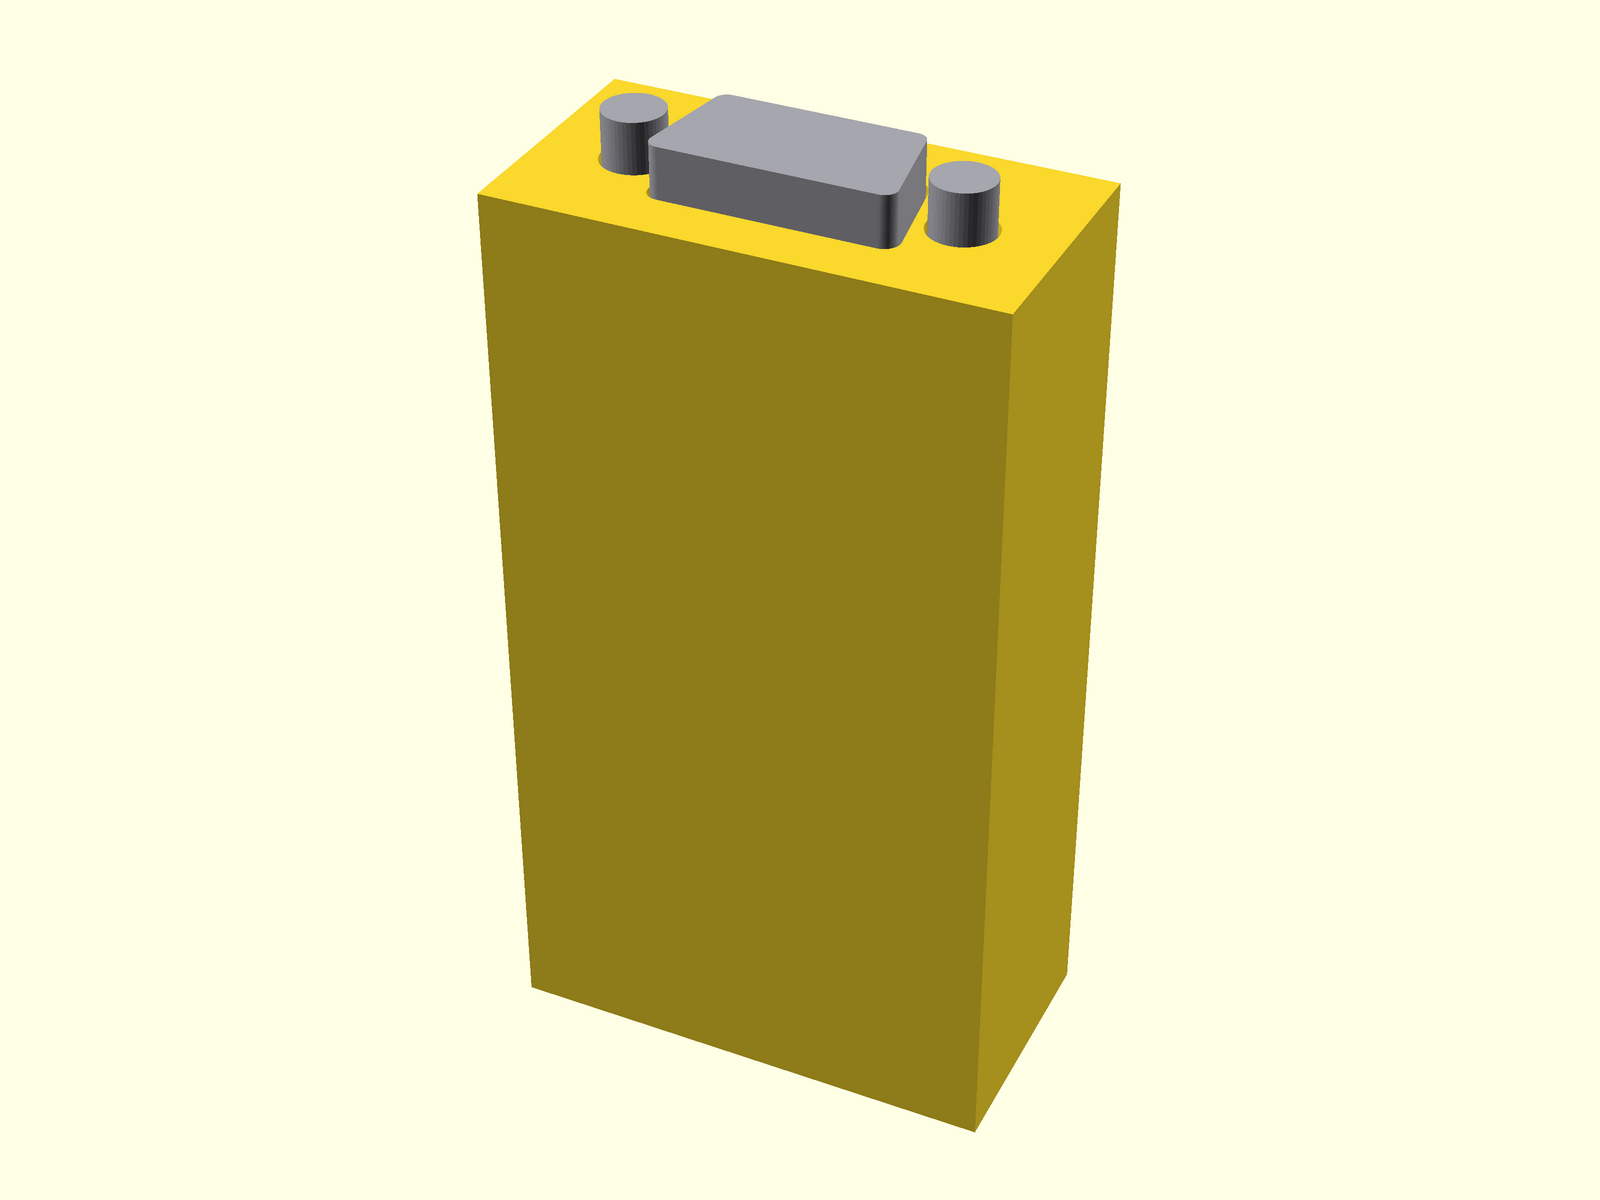
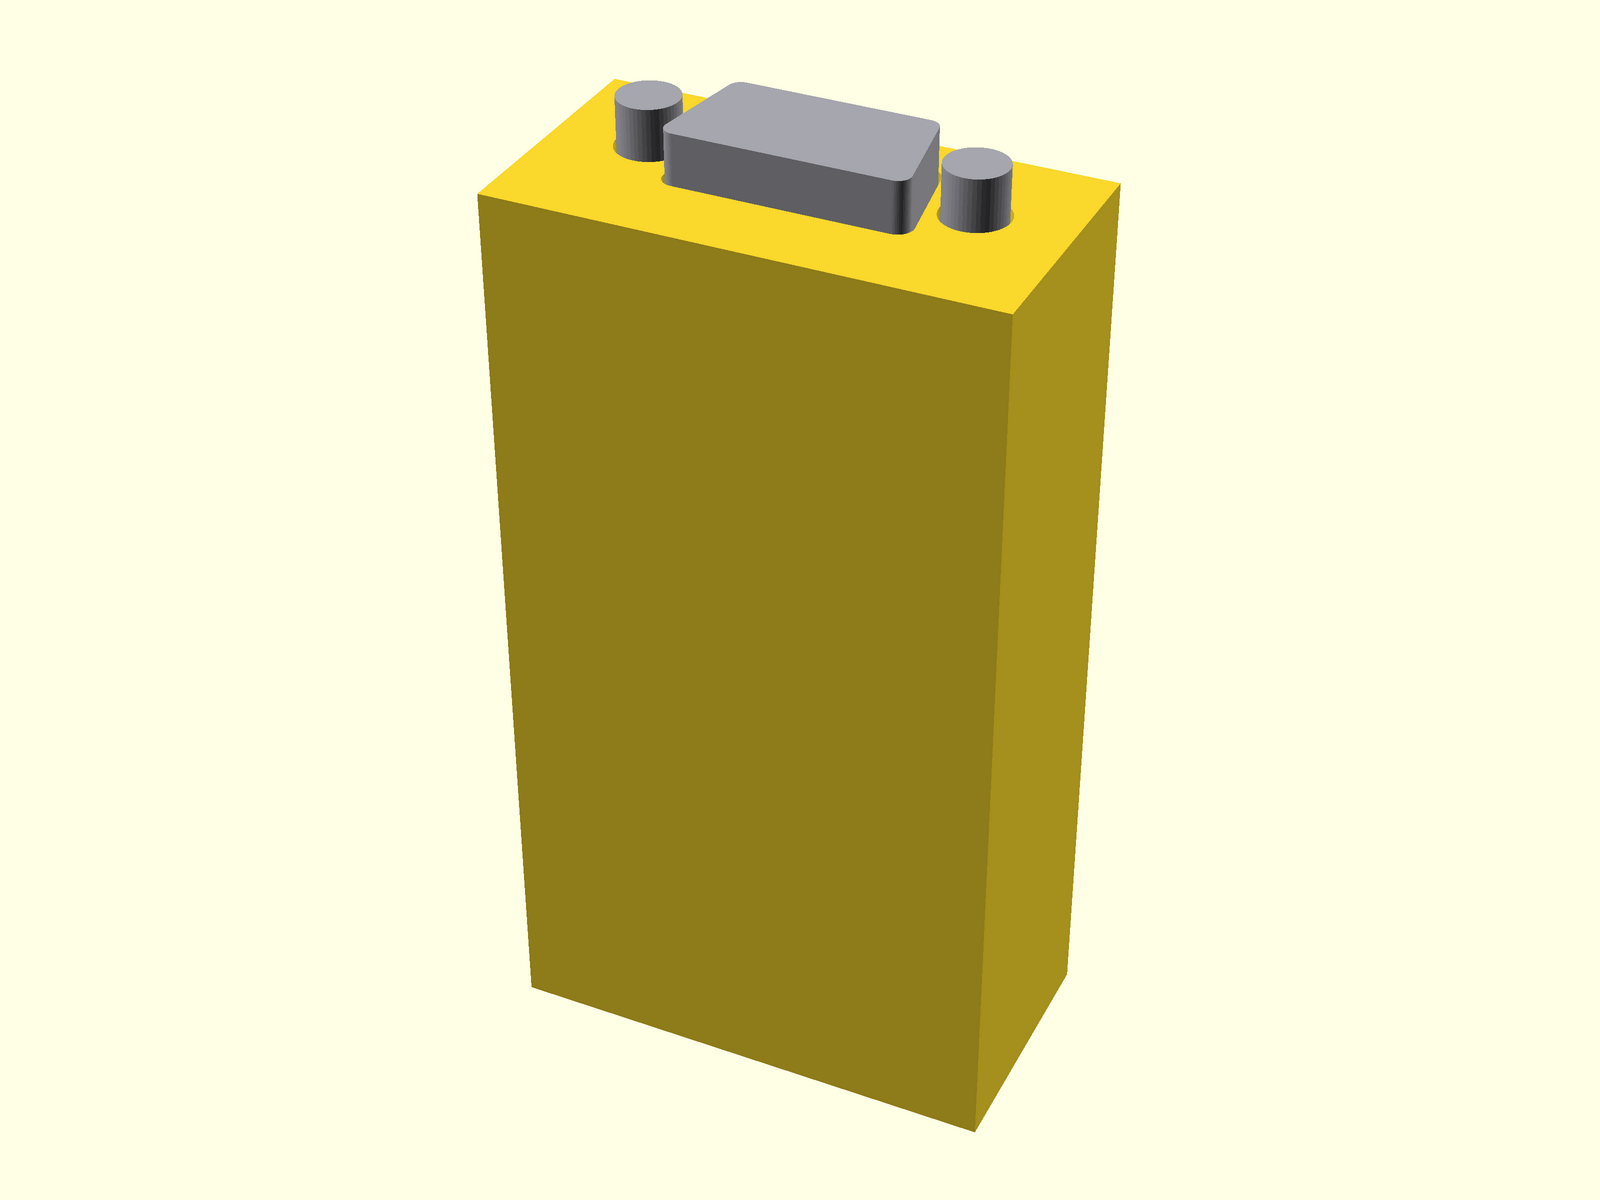
Offset DB9 lid pattern from PCB plane

Changed region(s): [[0.375, 0.0617, 0.6562, 0.2158]]

diff --git a/models/usb-serial-adapter-case/README.md b/models/usb-serial-adapter-case/README.md
@@ -36,6 +36,7 @@ standard 5.08 mm pitch as scale:
 | DB9 face | 18.6/16.2 × 9.5 mm (estimated) |
 | DB9 screw spacing | 25 mm |
 | DB9 screw-post diameter | 4.8 mm (estimated) |
+| DB9 center above PCB top | 6.5 mm (estimated) |
 | DB9 lid clearance | 0.25 mm per side |
 
 Measure the physical board before printing the complete case. The dimensions,
